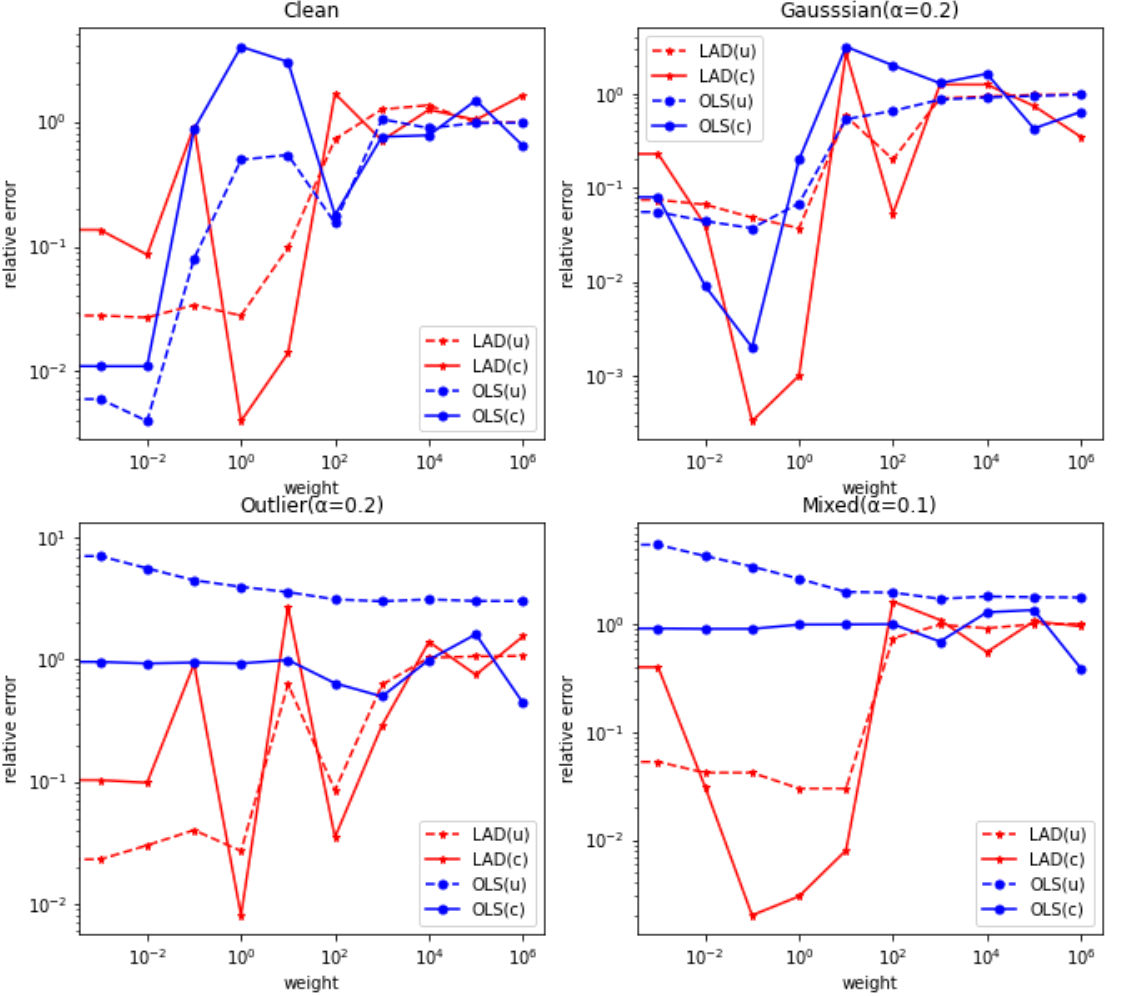
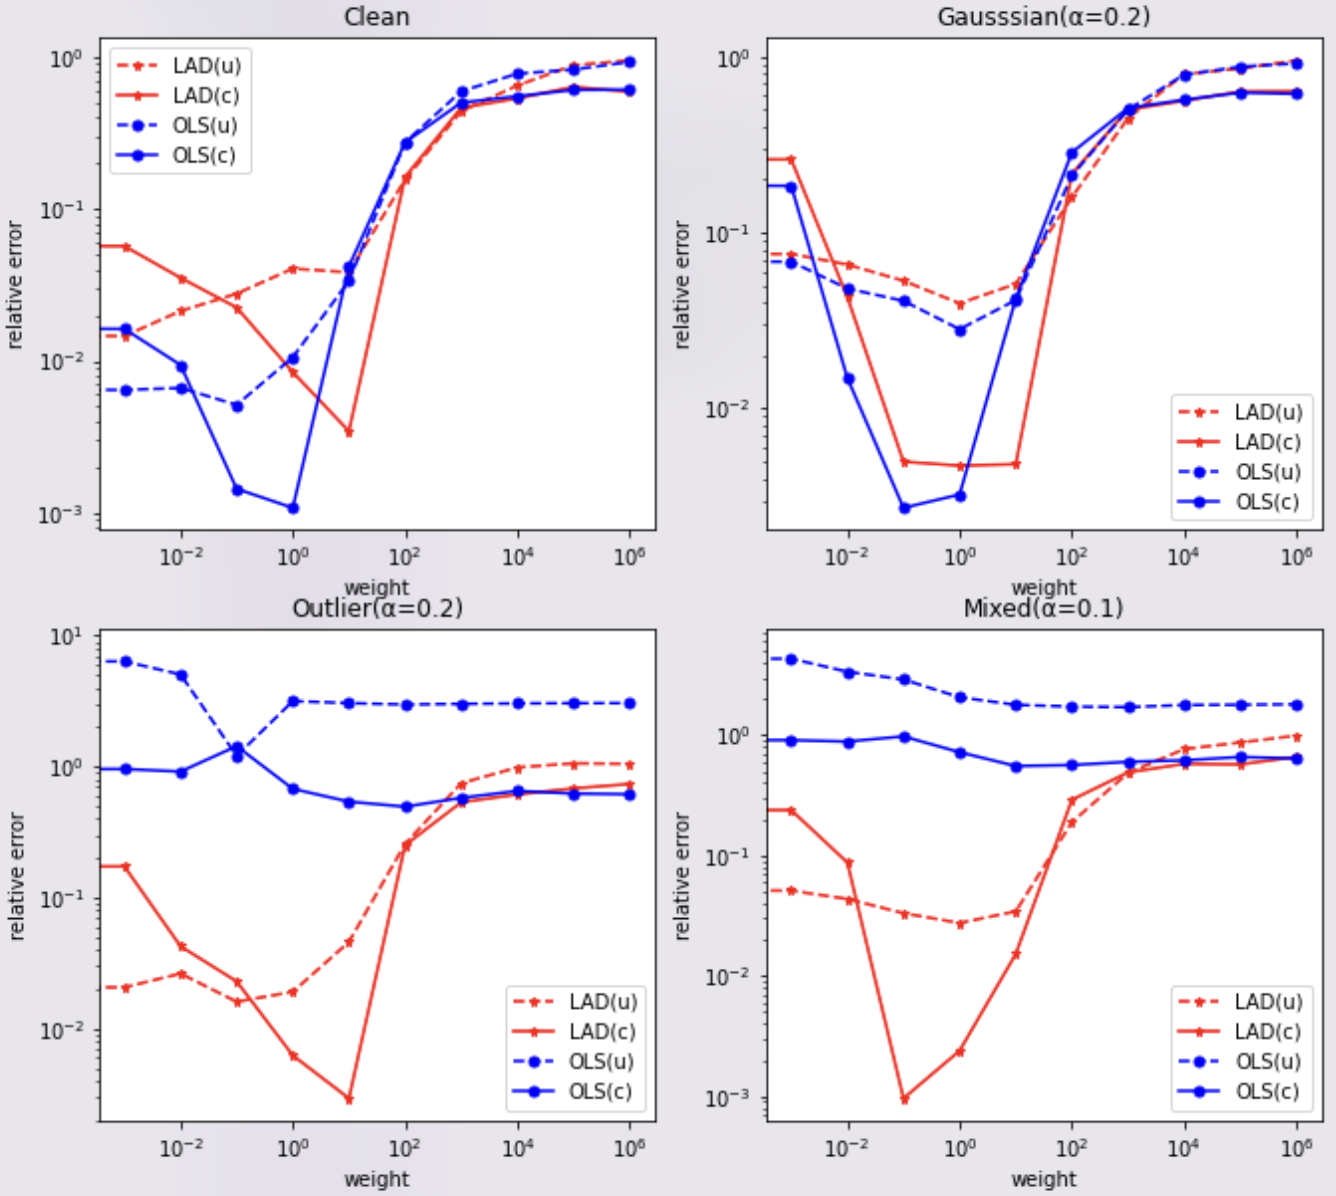
添加图片

diff --git a/piv/steady_NS.py b/piv/steady_NS.py
@@ -245,9 +245,6 @@ def run_experiment(epoch_num, noise_type, noise, loss_type, N, weight, _data=[],
     lb = np.array([0, 0])
     ub = np.array([1.1, 0.41])
 
-    # Network configuration
-    uv_layers = [2] + 8 * [40] + [5]
-
     wall_up = [0.0, 0.41] + [1.1, 0.0] * lhs(2, 101)
     wall_lw = [0.0, 0.00] + [1.1, 0.0] * lhs(2, 101)
     OUTLET = [1.1, 0.0] + [0.0, 0.41] * lhs(2, 201)
@@ -291,15 +288,15 @@ def run_experiment(epoch_num, noise_type, noise, loss_type, N, weight, _data=[],
     sta_time = time.time()
 
     # Adam初步优化
-    # for it in range(adam_iter):
-    #
-    #     learning_rate = Optimizer.get_lr()
-    #     Net_model.train(XY_c, OUTLET, WALL, DATA, Loss_data, Loss_PDE, weight, Optimizer, log_loss)
-    #     if (it + 1) % print_freq == 0:
-    #         print('epoch: {:6d}, lr: {:.3e}, data_loss: {:.3e}, pde_loss: {:.3e}, cost: {:.2f}'.
-    #           format(it, learning_rate, log_loss[-1][0], log_loss[-1][-1], time.time() - sta_time))
+    for it in range(adam_iter):
+
+        learning_rate = Optimizer.get_lr()
+        Net_model.train(XY_c, OUTLET, WALL, DATA, Loss_data, Loss_PDE, weight, Optimizer, log_loss)
+        if (it + 1) % print_freq == 0:
+            print('epoch: {:6d}, lr: {:.3e}, data_loss: {:.3e}, pde_loss: {:.3e}, cost: {:.2f}'.
+              format(it, learning_rate, log_loss[-1][0], log_loss[-1][-1], time.time() - sta_time))
     print(str(path) + '/' + f"{loss_type}_{N}_{noise_type}_{noise}_{abnormal_size}_{weight}.pdparams")
-    Net_model.loadmodel(str(path) + '/' + f"{loss_type}_{N}_{noise_type}_{noise}_{abnormal_size}_{weight}.pdparams")
+    # Net_model.loadmodel(str(path) + '/' + f"{loss_type}_{N}_{noise_type}_{noise}_{abnormal_size}_{weight}.pdparams")
     # LBFGS优化
     Optimizer = LBFGS(parameters=Net_model.parameters())
     for it in range(bfgs_iter):

diff --git a/README.md b/README.md
@@ -205,9 +205,13 @@ class PINN_wave(DeepModelSingle):
 ```
 #### 计算结果
 
-|          |  复现  | 论文 |
-|:--------:| :------------: | :------: |
-| Figure15 | ![](https://github.com/dsqzhou/rPINN_paddle/blob/main/fig/paddle/Figure15.png)|![](https://github.com/dsqzhou/rPINN_paddle/blob/main/fig/literature/fig15.png) |
+|          |                                       复现                                       |                                       论文                                        |
+|:--------:|:------------------------------------------------------------------------------:|:-------------------------------------------------------------------------------:|
+|  Table7  |   ![](https://github.com/dsqzhou/rPINN_paddle/blob/main/fig/paddle/tab7.png)   | ![](https://github.com/dsqzhou/rPINN_paddle/blob/main/fig/literature/tab7.png)  |
+|  Table8  |   ![](https://github.com/dsqzhou/rPINN_paddle/blob/main/fig/paddle/tab8.png)   | ![](https://github.com/dsqzhou/rPINN_paddle/blob/main/fig/literature/tab8.png)  |
+|  Table9  |   ![](https://github.com/dsqzhou/rPINN_paddle/blob/main/fig/paddle/tab9.png)   | ![](https://github.com/dsqzhou/rPINN_paddle/blob/main/fig/literature/tab9.png)  |
+| Table10  |  ![](https://github.com/dsqzhou/rPINN_paddle/blob/main/fig/paddle/tab10.png)   | ![](https://github.com/dsqzhou/rPINN_paddle/blob/main/fig/literature/tab10.png) |
+| Figure15 | ![](https://github.com/dsqzhou/rPINN_paddle/blob/main/fig/paddle/Figure15.png) | ![](https://github.com/dsqzhou/rPINN_paddle/blob/main/fig/literature/fig15.png) |
 
 ### 4.4 含有未知参数的二维非稳态NS方程
 #### 问题描述
@@ -260,7 +264,15 @@ def equation(self, inn_var):
 几何结构如上图所示，时空训练数据采样于圆柱体后面的矩形区。蓝色点表示速度分量u(t, x, y)、v(t, x, y)的训练数据点位置。
 * 所给数据集包含20s内该矩形域下的速度场分布（ $x\in [1,8], y\in [-2,2], t\in [0,20]$ ），压力未知，无边界条件。
 - 损失函数包括两部分：方程损失+速度数据损失
-计算结果
+#### 计算结果
+LAD-PINN与OLS-PINN对比
+
+|          |                                       复现                                       |                                       论文                                        |
+|:--------:|:------------------------------------------------------------------------------:|:-------------------------------------------------------------------------------:|
+| Table11  |  ![](https://github.com/dsqzhou/rPINN_paddle/blob/main/fig/paddle/tab11.png)   | ![](https://github.com/dsqzhou/rPINN_paddle/blob/main/fig/literature/tab11.png) |
+| Table12  |  ![](https://github.com/dsqzhou/rPINN_paddle/blob/main/fig/paddle/tab12.png)   | ![](https://github.com/dsqzhou/rPINN_paddle/blob/main/fig/literature/tab12.png) |
+| Table13  |  ![](https://github.com/dsqzhou/rPINN_paddle/blob/main/fig/paddle/tab13.png)   | ![](https://github.com/dsqzhou/rPINN_paddle/blob/main/fig/literature/tab13.png) |
+| Table14  |  ![](https://github.com/dsqzhou/rPINN_paddle/blob/main/fig/paddle/tab14.png)   | ![](https://github.com/dsqzhou/rPINN_paddle/blob/main/fig/literature/tab14.png) |
 二阶段方法压力重构
 * 在未给参考压力下，所求压力值都是相对值，因此重构压力场会与参考数据相差一个常数值。这个常数可利用最小化平方范数表示：
 
